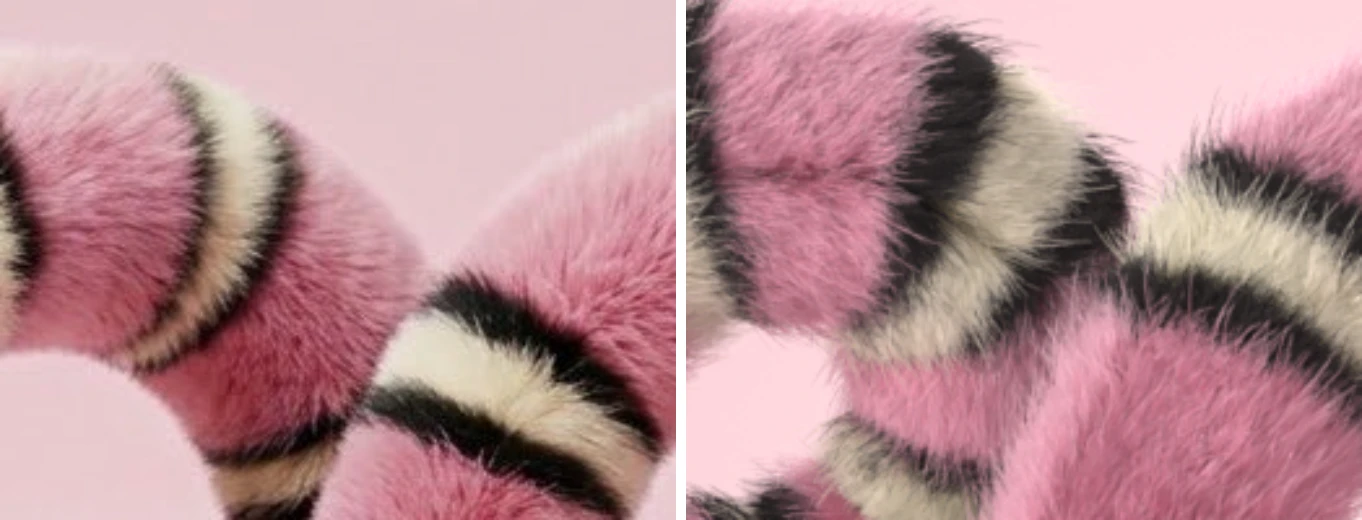
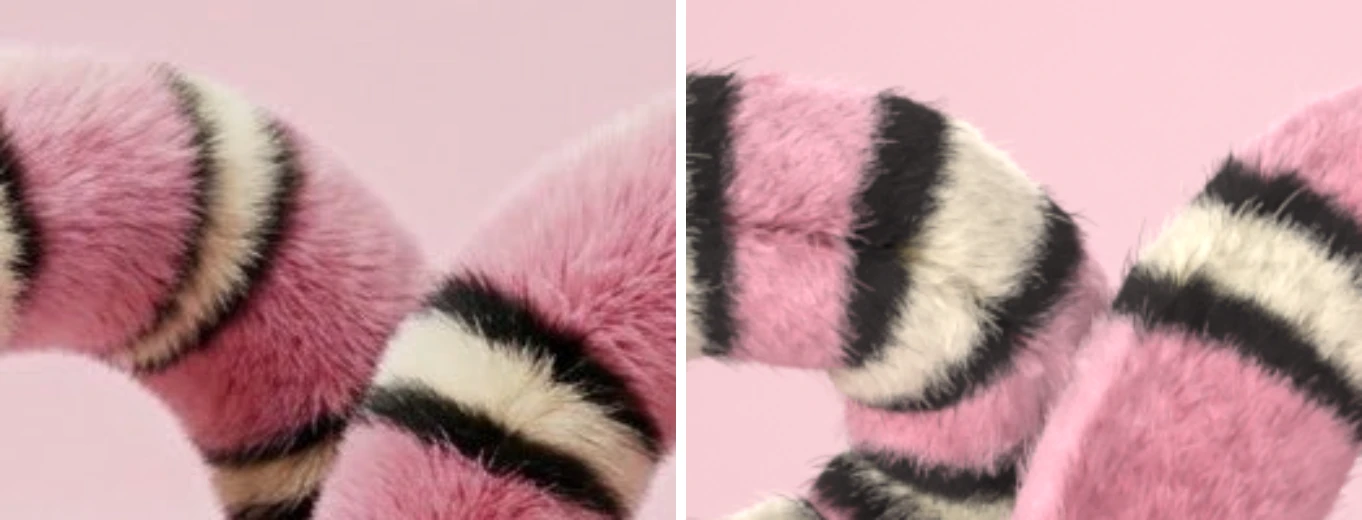
Snake head rebuilt from the photo silhouette; spine line recentred
Egg-shaped head measured on the photo (rounded front, nose below the axis,
eye 0.81 D behind the nose), spine points at the head, neck, top of the "e"
and tail moved to the middle of the body, shorter fur, warmer pink, softbox
light by the camera. Montages re-rendered.

diff --git a/blender/snake_scene.py b/blender/snake_scene.py
@@ -54,13 +54,13 @@ rng = np.random.default_rng(11)
 W_PX, H_PX = 1408, 768
 # centre line, snout (skin tip) -> tail, in photo pixels
 PATH_PX = [
-    (385, 257), (410, 247), (440, 233), (480, 216), (530, 196), (585, 183), (635, 186), (670, 208),
-    (686, 252), (678, 300), (655, 343), (610, 368), (550, 378), (500, 386), (455, 407), (428, 450),
+    (385, 257), (412, 252), (443, 239), (483, 222), (532, 203), (587, 205), (628, 209), (653, 221),
+    (678, 253), (678, 300), (655, 343), (610, 368), (550, 378), (500, 386), (455, 407), (428, 450),
     (430, 505), (458, 560), (505, 592), (565, 592), (615, 568), (655, 525), (688, 470), (712, 410),
-    (738, 335), (768, 270), (810, 218), (868, 192), (930, 198), (975, 232), (992, 282), (978, 335),
+    (738, 335), (768, 270), (810, 218), (868, 192), (925, 212), (965, 239), (982, 282), (978, 335),
     (944, 378), (900, 400), (840, 408), (778, 412), (728, 428), (712, 470), (732, 515), (775, 553),
-    (835, 580), (895, 588), (955, 572), (1005, 545), (1055, 512), (1100, 482), (1150, 466), (1200, 467),
-    (1260, 478), (1320, 494), (1385, 515), (1450, 535)]
+    (835, 580), (894, 577), (954, 568), (1005, 545), (1055, 512), (1102, 486), (1151, 475), (1199, 479),
+    (1255, 499), (1314, 513), (1383, 520), (1449, 540)]
 # depth (D, + = away from the camera) of each path point in the letter plane; None = lying on the floor
 DEPTH = [0, 0, 0, 0, 0, 0, 0, 0.15,
          0.3, 0.4, 0.4, 0.35, 0.2, 0, 0, 0,
@@ -82,14 +82,14 @@ LENS, SENSOR, PITCH, CAM_DIST, CAM_H = 85.0, 36.0, 7.0, 32.0, 6.4      # 1 D ~ 1
 
 # shape
 FUR = 0.13                  # fur depth on the body (D); outer body radius 0.5 -> skin radius 0.37
-FUR_STRAND = 1.5            # strands are longer than the depth: leaning, clumped tips read ~0.13 D above the skin
+FUR_STRAND = 1.15           # strands a bit longer than the depth: leaning, clumped tips read ~0.13 D above the skin
 HEAD_LEN = 1.30             # rigid head bone, from the snout tip
 NB = 56                     # spine bones behind the head
 N_AROUND = 32
 # calibrated against the photo (mean linear colour of pink / cream / black pixels, photo vs render)
 # light tones are fed more saturated: the hair model washes pale colours out toward grey
-COL = dict(pink='#CB7486', pink_deep='#AC4D61', muzzle='#DB8C9D', eye_ring='#A0566A',
-           cream='#F3D29A', black='#060202', tongue='#F0B5C3', skin_dark=0.72)
+COL = dict(pink='#CB7582', pink_deep='#AC4D5A', muzzle='#D6808E', eye_ring='#A05663',
+           cream='#EFCB95', black='#060202', tongue='#F0B5C3', skin_dark=0.72)
 
 
 def hex2lin(h):
@@ -211,17 +211,20 @@ log('rings at s =', np.round(RING_S, 2))
 def head_profile(s):
     """outer half height, half width and centre offset (z) at arc length s (snout tip = 0)"""
     s = np.asarray(s, float)
-    rt_h = (1 - (1 - np.clip(s / 0.80, 0, 1)) ** 2.0) ** (1 / 2.0)        # blunt rounded snout
-    rt_w = (1 - (1 - np.clip(s / 0.70, 0, 1)) ** 2.0) ** (1 / 2.0)        # round blunt snout seen from above
-    hump = sstep(0.1, 0.9, s) * (1 - sstep(1.05, 1.8, s))
-    hump_w = sstep(0.1, 0.8, s) * (1 - sstep(1.05, 1.8, s))
+    # Egg-shaped head measured on the photo: ~1.3 D tall from 0.5 to 1.15 D behind the nose, the front is the
+    # rounded end of an ellipse (no flat face), the axis dips toward the nose (nose low, forehead sloping down
+    # to it), then the head narrows into the neck by ~1.75 D.
+    HEAD_H, HEAD_W, EGG_C, EGG_A = 0.59, 0.56, 0.95, 0.95
+    q = np.clip((EGG_C - s) / EGG_A, 0, 1)
+    egg = np.sqrt(1 - q * q)                                                # rounded front of the egg
+    neck = sstep(1.15, 1.75, s)
     base = outer_radius(s, L)
+    hh = HEAD_H * egg * (1 - neck) + base * neck
+    ww = HEAD_W * egg * (1 - neck) + base * neck
+    cz = (-0.03 - 0.20 * np.clip(1 - s / EGG_C, 0, 1) ** 1.5) * (1 - neck)
     te = np.clip((L - s) / 0.35, 0, 1)
     rt2 = np.sqrt(1 - (1 - te) ** 2)                                        # round tail tip
-    hh = (base + 0.19 * hump) * rt_h * rt2
-    ww = (base + 0.17 * hump_w) * rt_w * rt2
-    cz = -0.03 * hump - 0.06 * (1 - sstep(0.0, 0.8, s))                    # nose a little low
-    return hh, ww, cz
+    return hh * rt2, ww * rt2, cz
 
 
 def fur_scale(hh, ww):
@@ -235,7 +238,7 @@ def skin_point(s, th):
     return np.stack([np.asarray(s, float) * np.ones_like(th), w * np.cos(th), cz + h * np.sin(th)], -1)
 
 
-EYE_S, EYE_Z, EYE_R = 0.93, -0.10, 0.10
+EYE_S, EYE_Z, EYE_R = 0.81, -0.05, 0.10          # photo: eye on the head axis, 0.81 D behind the nose
 
 
 def eye_pos(sign):
@@ -253,6 +256,8 @@ def surface_color(s, th, P):
     col = np.tile(hex2lin(COL['pink']), (n, 1))
     deep = (0.35 * sstep(0.2, -0.7, np.sin(th)))[:, None]                 # deeper rose low on the sides
     col = col * (1 - deep) + hex2lin(COL['pink_deep']) * deep
+    head = (0.75 * (1 - sstep(1.2, 1.6, s)))[:, None]                    # the head is a touch lighter
+    col = col * (1 - head) + hex2lin(COL['muzzle']) * head
     muz = (1 - sstep(0.10, 0.42, s))[:, None]                             # pale muzzle
     col = col * (1 - muz) + hex2lin(COL['muzzle']) * muz
     de = np.min([np.linalg.norm(P - e, axis=1) for e in EYES], axis=0)
@@ -507,12 +512,12 @@ def hair_material():
     mx = nt.nodes.new('ShaderNodeMix'); mx.data_type = 'RGBA'; mx.blend_type = 'MULTIPLY'
     mx.inputs['Factor'].default_value = 1
     nt.links.new(at.outputs['Color'], mx.inputs['A']); nt.links.new(cmb.outputs[0], mx.inputs['B'])
-    pw = nt.nodes.new('ShaderNodeMath'); pw.operation = 'POWER'; pw.inputs[1].default_value = 2.2
+    pw = nt.nodes.new('ShaderNodeMath'); pw.operation = 'POWER'; pw.inputs[1].default_value = 1.4
     nt.links.new(info.outputs['Intercept'], pw.inputs[0])
     ml = nt.nodes.new('ShaderNodeMath'); ml.operation = 'MULTIPLY'; ml.inputs[1].default_value = 0.9
     nt.links.new(pw.outputs[0], ml.inputs[0])
     lighter = nt.nodes.new('ShaderNodeMix'); lighter.data_type = 'RGBA'; lighter.blend_type = 'SCREEN'
-    lighter.inputs['Factor'].default_value = 0.65                # pale tips: a lighter tint of the strand's own colour
+    lighter.inputs['Factor'].default_value = 0.85                # pale tips: a lighter tint of the strand's own colour
     nt.links.new(at.outputs['Color'], lighter.inputs['A']); nt.links.new(at.outputs['Color'], lighter.inputs['B'])
     tip = nt.nodes.new('ShaderNodeMix'); tip.data_type = 'RGBA'
     nt.links.new(ml.outputs[0], tip.inputs['Factor']); nt.links.new(mx.outputs['Result'], tip.inputs['A'])
@@ -564,22 +569,25 @@ def grow_fur():
         d += nrm(P - e) * (1.4 * (1 - sstep(EYE_R * 1.1, EYE_R * 3.0, de)))[:, None]
     d = nrm(d - (d * N).sum(1, keepdims=True) * N)
     fl = fur_scale(hh, ww) * FUR * FUR_STRAND * (0.82 + 0.18 * sstep(0.05, 0.45, s))   # shorter on the muzzle
+    fl *= 1 + 0.25 * (1 - sstep(1.2, 1.6, s))                    # fluffier pile on the head
     for e in EYES:
         fl *= 0.06 + 0.94 * sstep(EYE_R * 1.2, EYE_R * 3.0, np.linalg.norm(P - e, axis=1))
     col = surface_color(s, th, P) * rng.uniform(0.88, 1.1, (n, 1))
-    shade = sstep(0.15, 0.55, s)                                  # no root darkening on the pale muzzle
-    return P, N, d, fl, col, UV, shade
+    hw = 1 - sstep(1.2, 1.6, s)                                   # the head pile stands up more (fluffier)
+    shade = sstep(0.15, 0.55, s) * (1 - 0.9 * hw)                 # little root darkening on the head, none on the muzzle
+    lean = (0.3 - 0.15 * hw, 1.1 - 0.4 * hw)
+    return P, N, d, fl, col, UV, shade, lean
 
 
-def make_hair(name, roots, normals, dirs, lengths, colors, uvs, shade, r0=0.0034, r1=0.0008, k=5,
-              lean=(0.3, 1.1), clump=0.55):
+def make_hair(name, roots, normals, dirs, lengths, colors, uvs, shade, lean, r0=0.0034, r1=0.0008, k=5,
+              clump=0.55):
     n = len(roots)
     t = np.linspace(0, 1, k)
     a0 = np.clip(lean[0] + rng.normal(0, 0.15, n), 0.0, 1.0)
     a1 = np.clip(lean[1] + rng.normal(0, 0.28, n), a0 + 0.05, 1.4)
     d = nrm(dirs + nrm(np.cross(normals, dirs)) * rng.normal(0, 0.45, (n, 1)))
     hfac = (np.sin(a1) - np.sin(a0)) / (a1 - a0)                  # mean cos of the bend -> tip height = length
-    stray = np.where(rng.random(n) < 0.03, rng.uniform(1.4, 1.9, n), 1.0)       # a few long stray fibres
+    stray = np.where(rng.random(n) < 0.012, rng.uniform(1.3, 1.6, n), 1.0)      # a few long stray fibres
     seg = (lengths * rng.uniform(0.85, 1.12, n) * stray / hfac)[:, None] / (k - 1)
     pts = np.zeros((n, k, 3))
     pts[:, 0] = roots - normals * 0.003
@@ -635,7 +643,7 @@ scene.collection.objects.link(cam)
 scene.camera = cam
 scene.render.resolution_x, scene.render.resolution_y = W_PX, H_PX
 
-BG = np.array([0.89, 0.79, 0.81])
+BG = np.array([0.80, 0.70, 0.72])
 sweep_m = mat_principled('Backdrop', np.where(BG <= 0.04045, BG / 12.92, ((BG + 0.055) / 1.055) ** 2.4), 0.95, spec=0.2)
 prof = [(-30.0, floor_z)] + [(7 + 6 * math.sin(a), floor_z + 6 * (1 - math.cos(a)))
                              for a in np.linspace(0, math.pi / 2, 40)] + [(20.0, floor_z + 30)]
@@ -660,7 +668,8 @@ def area_light(name, loc, target, energy, size, color=(1, 1, 1)):
 
 
 mid = Vector((float(np.mean(path[:, 0])), 0.0, floor_z + 2.5))
-area_light('Key', (-12, -13, floor_z + 8), mid, float(arg('--key', 4300)), 10, (1.0, 0.97, 0.95))
+area_light('Key', (-12, -13, floor_z + 8), mid, float(arg('--key', 2600)), 10, (1.0, 0.97, 0.95))
+area_light('Beauty', (-6, -28, floor_z + 10), mid, float(arg('--beauty', 7500)), 14, (1.0, 0.97, 0.96))    # softbox by the camera
 area_light('Fill', (10, -12, floor_z + 5), mid, float(arg('--fill', 700)), 10, (1.0, 0.95, 0.96))
 area_light('Back', (2, 12, floor_z + 9), mid, 1500, 8, (1.0, 0.96, 0.96))
 
@@ -672,7 +681,7 @@ scene.cycles.transparent_max_bounces = 16
 scene.cycles_curves.shape = 'THICK'
 scene.view_settings.view_transform = 'Standard'
 scene.view_settings.look = 'None'
-scene.view_settings.exposure = float(arg('--exposure', -0.35))
+scene.view_settings.exposure = float(arg('--exposure', -0.2))
 os.makedirs(os.path.dirname(BLEND), exist_ok=True)
 bpy.ops.wm.save_as_mainfile(filepath=BLEND, compress=False)
 log('saved', BLEND)

diff --git a/blender/README.md b/blender/README.md
@@ -34,7 +34,10 @@ blender -b --factory-startup --python blender/snake_scene.py -- --render --previ
 | `EyeL`, `EyeR`, `Tongue` | глаза-бусины и раздвоенный язык, привязаны к кости `Head` |
 | `Fur` | волосы (hair curves), только для Cycles: растут на коже в покое и держатся на ней в любой позе через geometry nodes «Deform Curves on Surface»; цвет ворсинки `fur_col`, затемнение корней `root_shade` |
 | `CamHero` | камера, совпадающая с фото: 85 мм, наклон 7° вниз, 1 D ≈ 104 px у букв |
-| `Sweep`, `Key`, `Fill`, `Back` | бесшовный пудрово-розовый фон, мягкий ключевой свет слева сверху |
+| `Sweep`, `Key`, `Beauty`, `Fill`, `Back` | бесшовный пудрово-розовый фон, мягкий ключевой свет слева сверху, большой софтбокс у камеры |
+
+Голова — «яйцо», снятое с силуэта фото (высота ~1.3 D, нос ниже оси, глаз в 0.81 D от носа); линия
+позвоночника у головы, шеи, верха «e» и хвоста выровнена по середине тела на фото.
 
 ## Как получена поза
 
